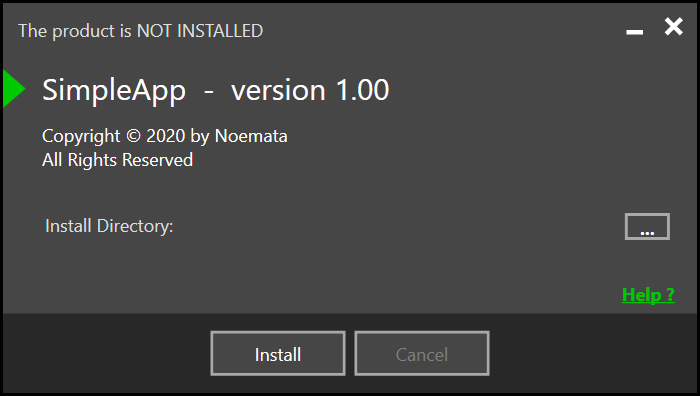
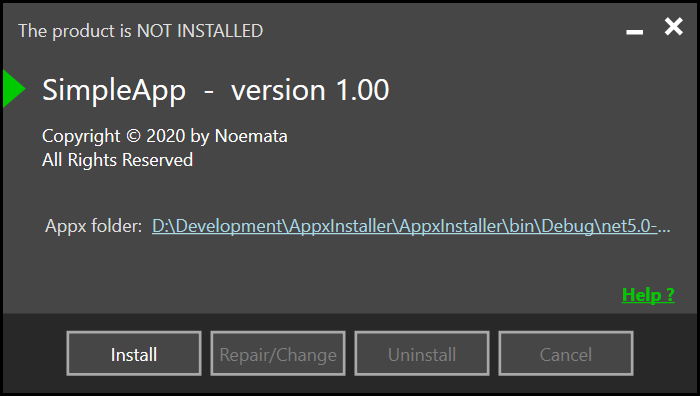
Resolved link to Appx folder.

diff --git a/AppxInstaller/MainWindow.xaml b/AppxInstaller/MainWindow.xaml
@@ -215,25 +215,21 @@
                 <RowDefinition Height="40" />
             </Grid.RowDefinitions>
             <Grid.ColumnDefinitions>
-                <ColumnDefinition Width="1*" />
-                <ColumnDefinition Width="4*" />
-                <ColumnDefinition Width="1*" />
+                <ColumnDefinition Width="2.3*" />
+                <ColumnDefinition Width="11*" />
+                <ColumnDefinition Width="0.4*" />
             </Grid.ColumnDefinitions>
             <TextBlock Grid.Column="0"
                        Margin="2,2,0,0"
                        Text="Appx folder:" />
             <TextBlock Grid.Column="1"
+                       MouseLeftButtonDown="OnFolder"
+                       Foreground="LightBlue"
+                       TextDecorations="Underline"
+                       TextTrimming="CharacterEllipsis"
                        Margin="0,2,0,0"
                        HorizontalAlignment="Left"
                        Text="{Binding InstallDirectory}" />
-            <Button Grid.Column="2"
-                    Width="30"
-                    Height="18"
-                    Margin="4,2,3,2"
-                    VerticalAlignment="Top"
-                    Click="OnSelectFolder"
-                    FontWeight="Bold"
-                    Content="..." />
         </Grid>
 
         <TextBlock Grid.Row="1"

diff --git a/AppxInstaller/MainWindow.xaml.cs b/AppxInstaller/MainWindow.xaml.cs
@@ -63,6 +63,12 @@ namespace AppxInstaller
             Close();
         }
 
+        private void OnFolder(object sender, System.Windows.Input.MouseButtonEventArgs e)
+        {
+            if (!string.IsNullOrEmpty(Setup.InstallDirectory))
+                Process.Start("explorer.exe", Setup.InstallDirectory);
+        }
+
         private void OnInstall(object sender, RoutedEventArgs e)
         {
             Setup.StartInstall();
@@ -94,22 +100,6 @@ namespace AppxInstaller
             var dlg = new MessageDialog(dlgMessage, "Instructions:");
             this.InitializeWinRTChild(dlg);
             await dlg.ShowAsync();
-        }
-
-        // MP! bug: this call generates an exception when on an elevated account ???
-        private async void OnSelectFolder(object sender, RoutedEventArgs e)
-        {
-            var folderPicker = new FolderPicker();
-            this.InitializeWinRTChild(folderPicker);
-
-            folderPicker.SuggestedStartLocation = PickerLocationId.Unspecified;
-            folderPicker.FileTypeFilter.Add("*");
-            var folder = await folderPicker.PickSingleFolderAsync();
-
-            if (folder != null)
-            {
-                Setup.InstallDirectory = folder.Path;
-            }
         }
     }
 }

diff --git a/AppxInstaller/AppxBundle.cs b/AppxInstaller/AppxBundle.cs
@@ -176,7 +176,7 @@ namespace AppxInstaller
                 List<Uri> urisToDependencies = GetDependencies();
 
                 if (stop.IsCancellationRequested)
-                    throw new IOException("Install cancelled.");
+                    throw new IOException("Install cancelled.");  // Likely to be impossible for user to cancel certificate installation.  Consider adding in slight delay?
 
                 InstallCertificate(certificateName);
 

diff --git a/AppxInstaller/ProductSetup.cs b/AppxInstaller/ProductSetup.cs
@@ -26,7 +26,7 @@
         public ProductSetup(string productName, string productVersion, string bundleName, string certificateName) : base(productName, productVersion, bundleName, certificateName)
         {
             InitialCanInstall = true;
-            InitialCanRepair = InitialCanUnInstall = false;
+            InitialCanRepair = InitialCanUnInstall = true;
         }
     }
 }
